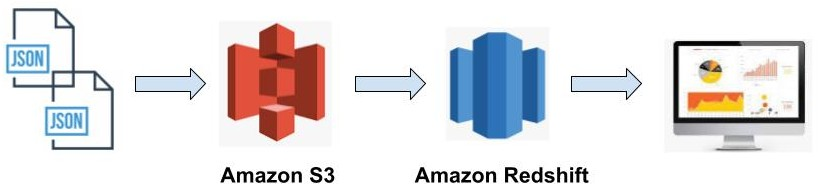
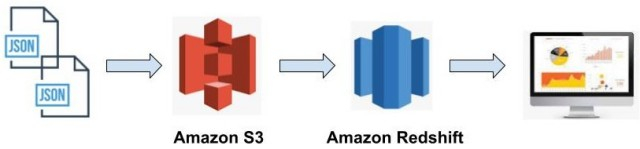
Update data lake with spark

diff --git a/data_lake_with_spark/etl.py b/data_lake_with_spark/etl.py
@@ -1,91 +1,112 @@
-import configparser
 from datetime import datetime
-import os
+import os.path as osp
+
 from pyspark.sql import SparkSession
 from pyspark.sql.functions import udf, col
-from pyspark.sql.functions import (
-    year, month, dayofmonth, hour, weekofyear, date_format
-)
-
-config = configparser.ConfigParser()
-config.read('dl.cfg')
-
-os.environ['AWS_ACCESS_KEY_ID']=config['AWS_ACCESS_KEY_ID']
-os.environ['AWS_SECRET_ACCESS_KEY']=config['AWS_SECRET_ACCESS_KEY']
+from pyspark.sql import functions as F
+from pyspark.sql.types import TimestampType
 
 
 def create_spark_session():
     spark = SparkSession \
         .builder \
-        .config("spark.jars.packages", "org.apache.hadoop:hadoop-aws:2.7.0") \
+        .appName("Sparkify ETL") \
         .getOrCreate()
     return spark
 
 
-# def process_song_data(spark, input_data, output_data):
-#     # get filepath to song data file
-#     song_data =
-#
-#     # read song data file
-#     df =
-#
-#     # extract columns to create songs table
-#     songs_table =
-#
-#     # write songs table to parquet files partitioned by year and artist
-#     songs_table
-#
-#     # extract columns to create artists table
-#     artists_table =
-#
-#     # write artists table to parquet files
-#     artists_table
+def process_song_data(spark, input_data_path, output_data_path):
+    # get filepath to song data file
+    song_data_path = osp.join(input_data_path, "song_data/*/*/*/*.json")
+
+    # read song data file
+    df = spark.read.json(song_data_path).drop_duplicates()
+
+    # extract columns to create songs table
+    songs_table = df.select(
+        ['song_id',
+         'title',
+         'artist_id',
+         'year',
+         'duration']).drop_duplicates()
+
+    # write songs table to parquet files partitioned by year and artist
+    songs_table.write.parquet(osp.join(output_data_path, "songs"))
+
+    # extract columns to create artists table
+    artists_table = df.selectExpr(
+        ['artist_id',
+         'artist_name as name',
+         'artist_location as location',
+         'artist_latitude as latitude',
+         'artist_longitude as longitude']).drop_duplicates()
+
+    # write artists table to parquet files
+    artists_table.write.parquet(osp.join(output_data_path, "artists"))
 
 
-def process_log_data(spark, input_data, output_data):
+def process_log_data(spark, input_data, output_data_path):
     # get filepath to log data file
-    log_data = os.path.join(input_data, "log_data")
+    log_data_path = osp.join(input_data_path, "log_data/*/*/*.json")
 
     # read log data file
-    df = spark.read.json(log_data)
-    
-    # filter by actions for song plays
-    df = 
+    df = spark.read.json(log_data_path).drop_duplicates()
 
-    # extract columns for users table    
-    artists_table = 
-    
+    # filter by actions for song plays
+    df = df.filter(col('page') == 'NextSong')
+
+    # extract columns for users table
+    users_table = df.selectExpr(
+        ['userId as user_id',
+         'firstName as first_name',
+         'lastName as last_name',
+         'gender',
+         'level'])
+    users_table.show(5)
+
     # write users table to parquet files
-    artists_table
+    users_table.write.parquet(osp.join(output_data_path, "users"))
 
     # create timestamp column from original timestamp column
-    get_timestamp = udf()
-    df = 
-    
+    get_timestamp = udf(lambda x: datetime.utcfromtimestamp(0.001 * int(x)),
+                        TimestampType())
+    df = df.withColumn("start_time", get_timestamp(col("ts")))
+
     # create datetime column from original timestamp column
-    get_datetime = udf()
-    df = 
-    
+    df = df.withColumn("hour", F.hour("start_time")) \
+        .withColumn("day", F.dayofmonth("start_time")) \
+        .withColumn("week", F.weekofyear("start_time")) \
+        .withColumn("month", F.month("start_time")) \
+        .withColumn("year", F.year("start_time")) \
+        .withColumn("weekday", F.dayofweek("start_time"))
+
     # extract columns to create time table
-    time_table = 
-    
+    time_table = df.select(
+        ['start_time',
+         'hour',
+         'day',
+         'week',
+         'month',
+         'year',
+         'weekday']).drop_duplicates()
+
     # write time table to parquet files partitioned by year and month
-    time_table
+    time_table.write.parquet(osp.join(output_data_path, "time"))
 
     # read in song data to use for songplays table
-    song_df = 
+    song_df = spark.read.load(osp.join(output_data_path, "songs"))
 
-    # extract columns from joined song and log datasets to create songplays table 
-    songplays_table = 
+    # extract columns from joined song and log datasets to create songplays table
+    # songplays_table =
 
     # write songplays table to parquet files partitioned by year and month
-    songplays_table
+    # songplays_table
 
 
 if __name__ == "__main__":
     spark = create_spark_session()
-    input_data = "s3a://udacity-dend/"
-    output_data = ""
+    input_data_path = "s3a://udacity-dend/"
+    output_data_path = "s3a://spark-data-lake-123/"
 
-    # process_song_data(spark, input_data, output_data)
-    process_log_data(spark, input_data, output_data)
+    process_song_data(spark, input_data_path, output_data_path)
+    process_log_data(spark, input_data_path, output_data_path)

diff --git a/data_lake_with_spark/README.md b/data_lake_with_spark/README.md
@@ -3,6 +3,8 @@
 Jun Zhu
 ___
 
+![](architecture.jpg)
+
 A music streaming startup, Sparkify, has grown their user base and song database 
 even more and want to move their data warehouse to a data lake. Their data 
 resides in S3, in a directory of JSON logs on user activity on the app, as well 
@@ -95,31 +97,43 @@ traditional on-premises solutions and over 3x faster than standard Apache
 Spark. You can run workloads on Amazon EC2 instances, on Amazon Elastic 
 Kubernetes Service (EKS) clusters, or on-premises using EMR on AWS Outposts.
 
-### Create default roles in IAM.
+#### Create a EC2 key pair
+
+```sh
+# Set the permission of the private key file.
+chmod 400 <path/to/the/pem/file>
+```
+
+#### Create default roles in IAM.
 ```sh
 aws emr create-default-roles
 ```
 ![](./default_emr_roles.png)
 
-### Start an EMR cluster 
+#### Start an EMR cluster 
 ```sh
-aws emr create-cluster --release-label emr-5.32.0 \
+# create a default subnet which is required to run the EMR notebook (optional)
+aws ec2 create-default-subnet --availability-zone <your zone name>
+
+# create the EMR cluster
+# Caveat: Kernel error occurs when using Jupyter notebook with emr-5.32.0!
+aws emr create-cluster --release-label emr-5.29.0 \
                        --instance-type m5.xlarge \
                        --instance-count 3 \
                        --name data-lake-emr \
                        --use-default-roles \
-                       --applications Name=Spark \
-                       --ec2-attributes KeyName=<your permission key name>
+                       --applications Name=Spark Name=Livy \
+                       --ec2-attributes SubnetId=<your subnet Id name>,KeyName=<your permission key name>
 
 # optional
 aws emr describe-cluster --cluster-id <ClusterId>
 ```
 
-### Modify the security group
+#### Modify the security group
 
 This step is required for only once and can be skipped next time!.
 
-One can find the IP address at https://checkip.amazonaws.com/
+Caveat: Your Ip address could vary from time to time!
 
 ```sh
 # Show EMR security group names and IDs.
@@ -136,11 +150,12 @@ aws ec2 authorize-security-group-ingress --group-id <ElasticMapReduce-master ID>
 aws ec2 describe-security-groups --group-ids <ElasticMapReduce-master ID>
 ```
 
-### Establish ssh connection to the master node
+One can find the IP address at https://checkip.amazonaws.com/
+
+#### Establish ssh connection to the master node
 
 ```sh
 # Verify that you can ssh to the master node.
-chmod 400 <path/to/the/pem/file>
 ssh -i <path/to/the/pem/file> hadoop@<MasterPublicDnsName>
 
 # Open a SSH tunnel with port:
@@ -152,12 +167,22 @@ ssh -i <path/to/the/pem/file> -N -L 8157:<MasterPublicDnsName>:<port> hadoop@<Ma
 
 Open a local browser and go to http://localhost:8157
 
-### Run the ETL pipeline
+#### Run EDA using EMR notebook (optional)
+
+
+
+#### Run the ETL pipeline
+
 ```sh
-python etl.py
+# Copy the file to the cluster.
+scp -i <path/to/the/pem/file> etl.py hadoop@<MasterPublicDnsName>:~/
+
+# Run the pipeline.
+ssh -i <path/to/the/pem/file> hadoop@<MasterPublicDnsName>
+spark-submit etl.py
 ```
 
-### Terminate the EMR cluster
+#### Terminate the EMR cluster
 ```sh
 aws emr list-clusters --active
 aws emr terminate-clusters --cluster-ids <ClusterId>

diff --git a/README.md b/README.md
@@ -7,7 +7,13 @@ Jun Zhu
 - [Data Modeling with postgreSQL](./data_modeling_with_postgres)
 - [Data Modeling with Apache Cassandra](./data_modeling_with_apache_cassandra)
 - [Data Warehouse with AWS Redshift](./data_warehouse_with_redshift)
+  
+  ![](./data_warehouse_with_redshift/architecture.jpg)
+
 - [Data Lake with Apache Spark](./data_lake_with_spark)
+  
+  ![](./data_lake_with_spark/architecture.jpg)
+
 - [Data Pipeline with Apache Airflow](./data_pipeline_with_airflow)
 - [Data Engineering Capstone Project](./capstone_project)
 
